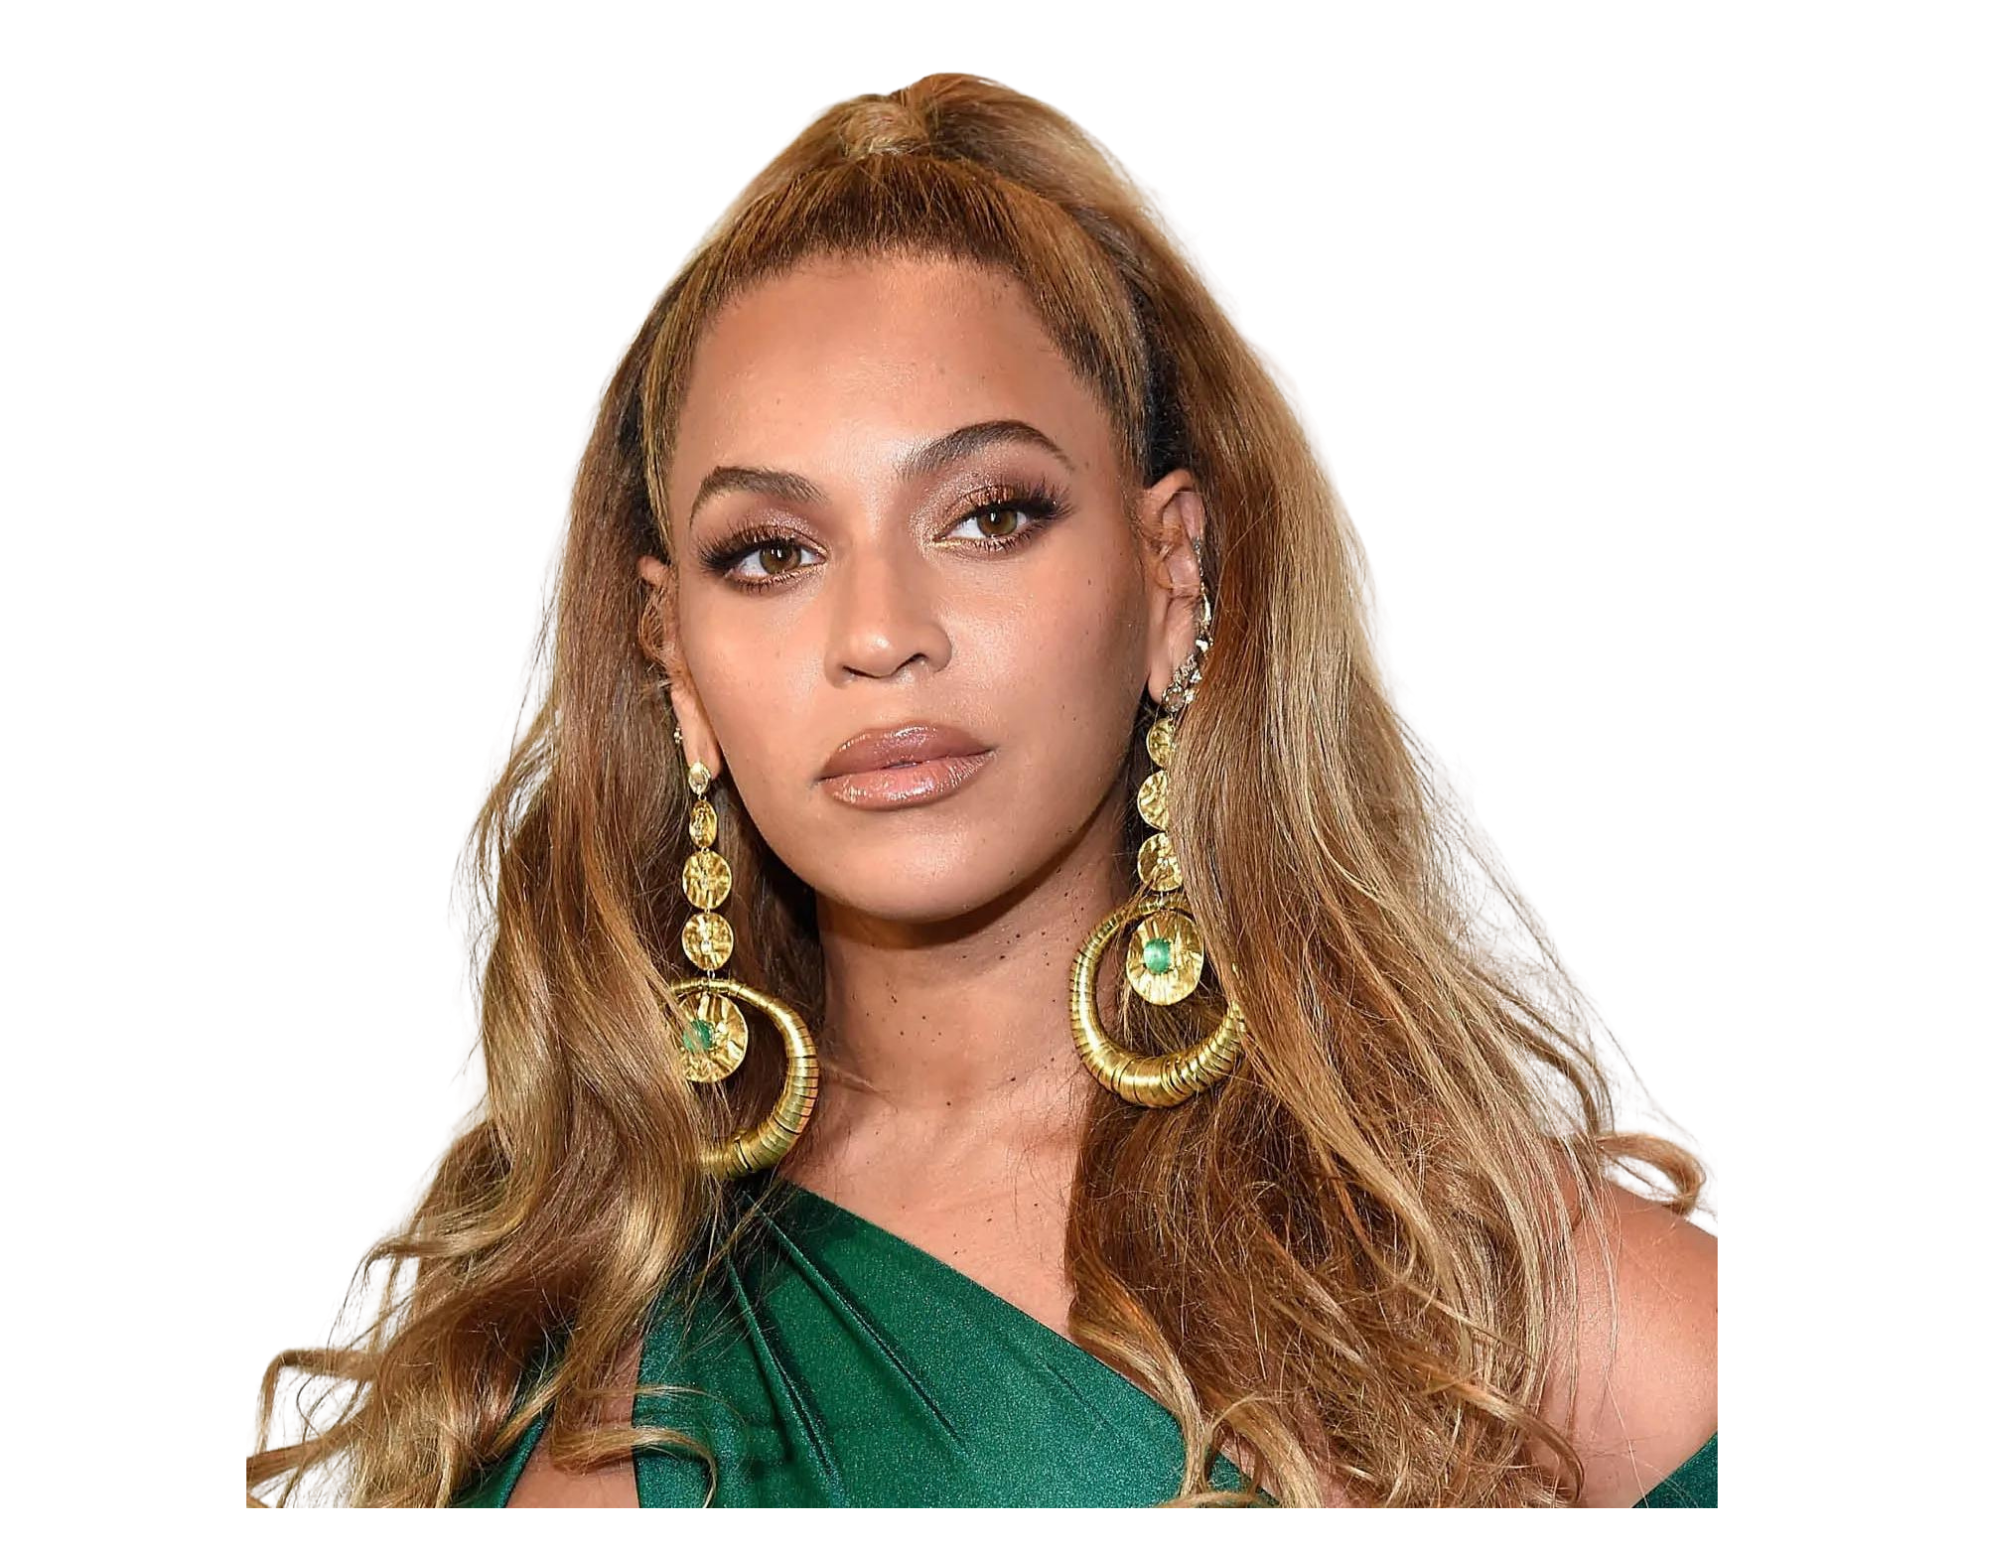
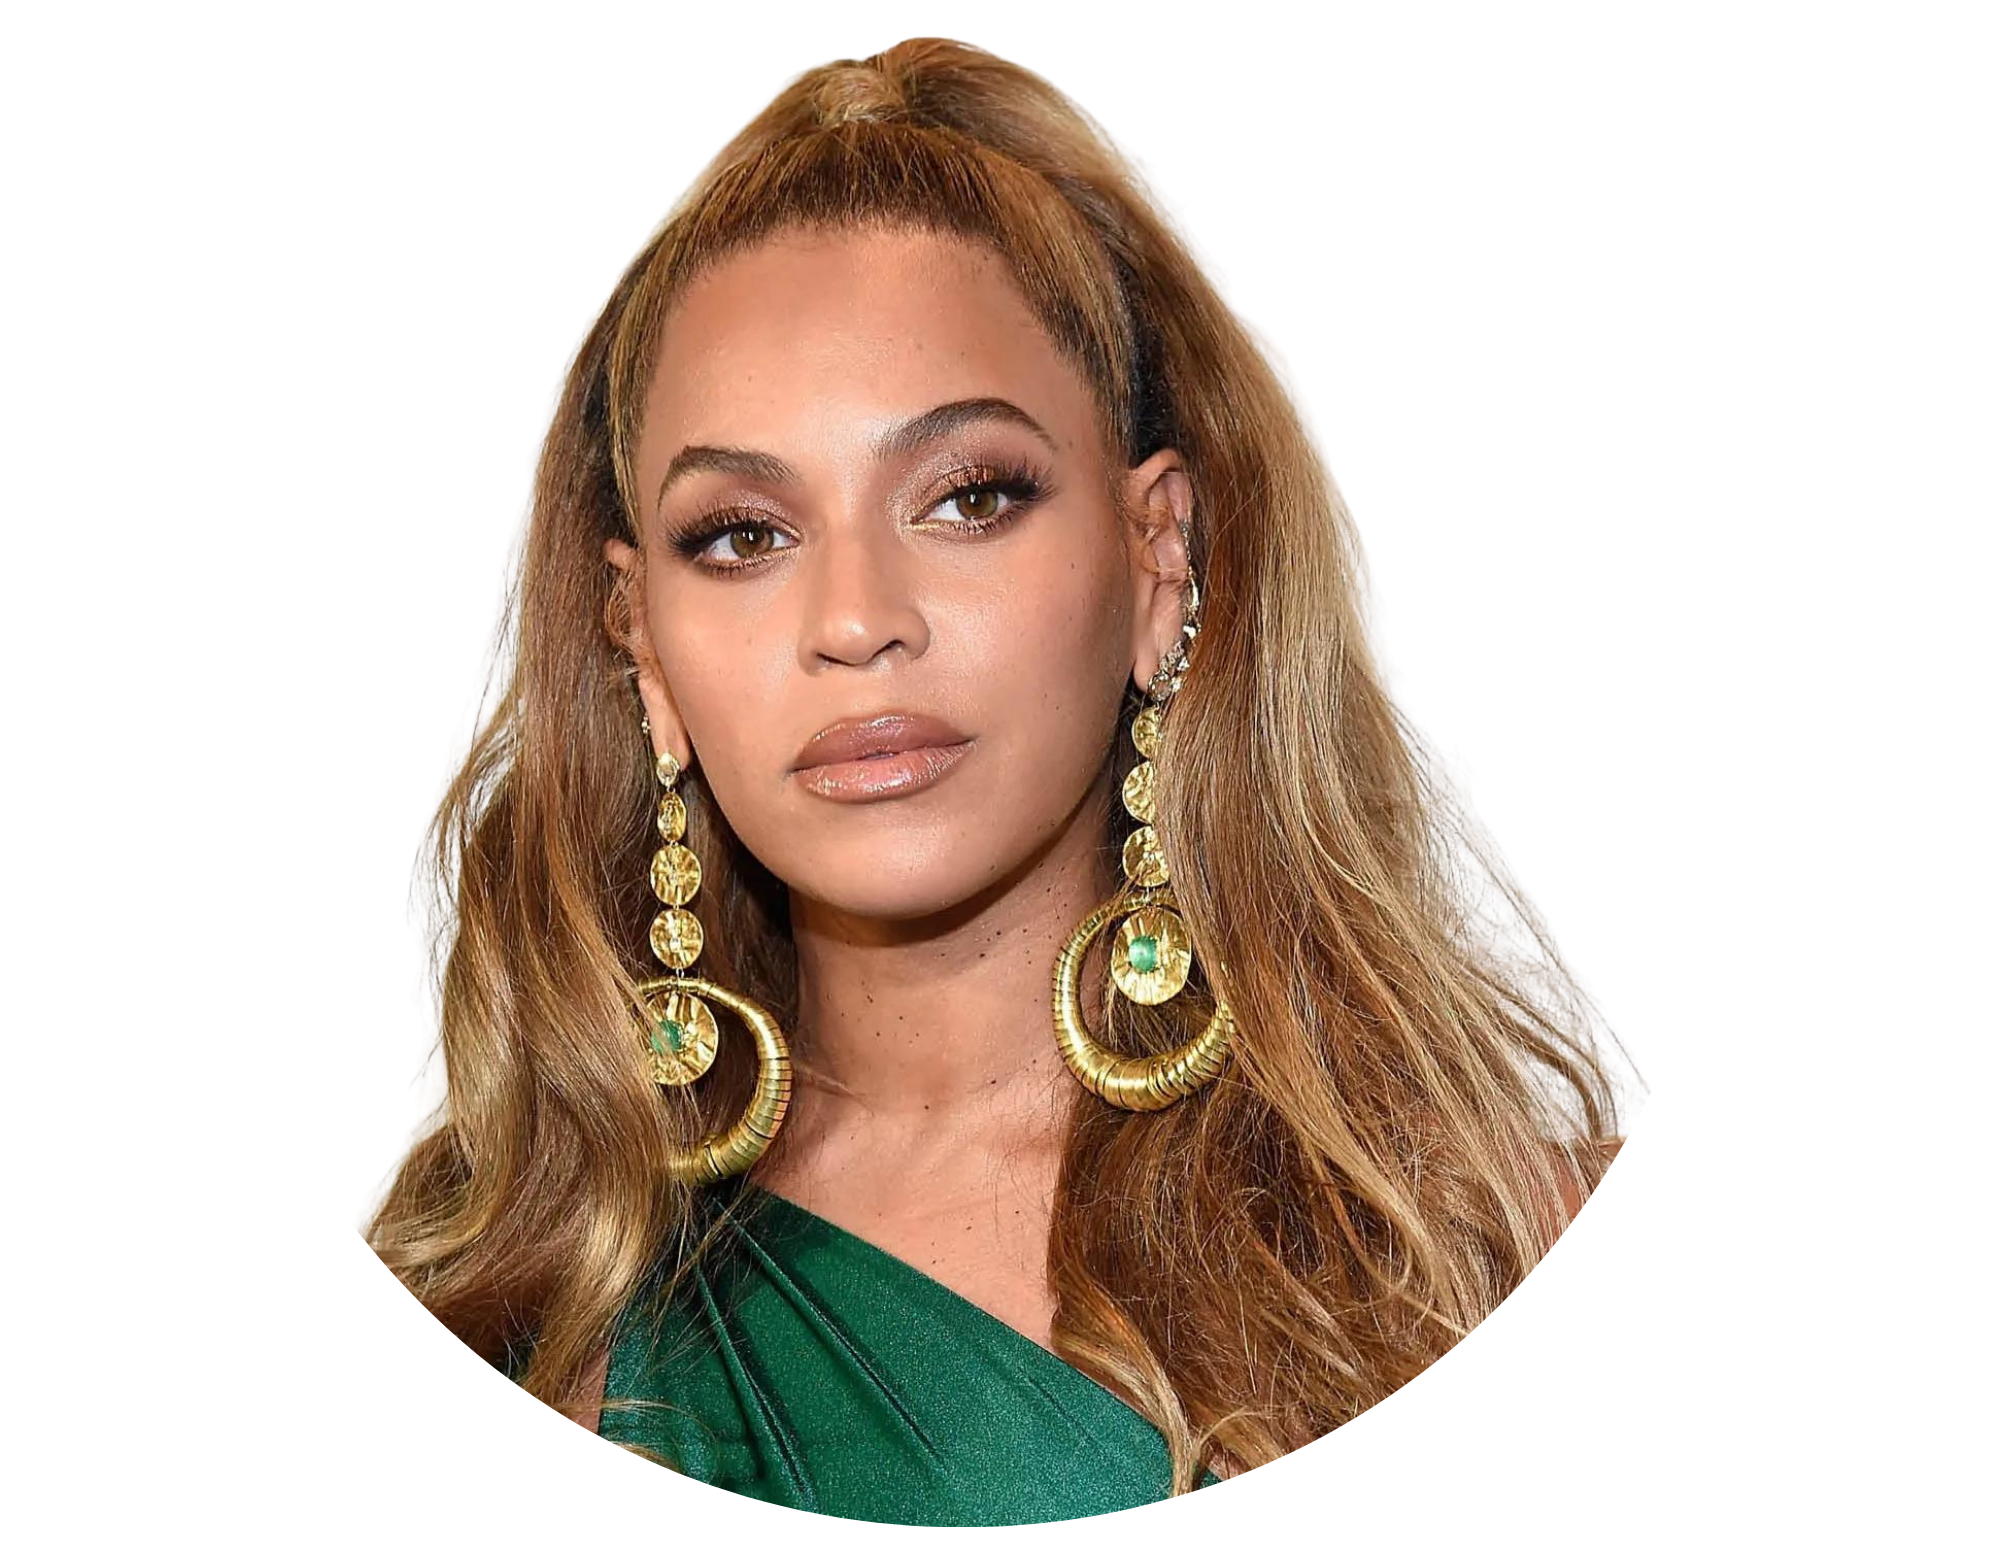
change heading and heading img

Changed region(s): [[0.124, 0.0, 0.868, 0.9942]]

diff --git a/stylesheet.css b/stylesheet.css
@@ -22,9 +22,7 @@ main {
 
 .header {
      display: block;
-     height: 70vh;
-     background-image: url(img-folder/clearyonce.png);
-     background-size: cover;
+     height: 80vh;
      position: relative;
      animation: moveInRight 2s ease-in;
 }
@@ -32,6 +30,7 @@ main {
 
 h1 {
      color: #000000fd;
+     animation: moveInLeft 2s ease-in;
 }
 
 h3 {
@@ -122,5 +121,24 @@ p {
           transform: translateX(0);
     }
 }
+
+@keyframes moveInLeft {
+     0% {
+      opacity: 0%;
+      transform: translateX(100px);
+     } 
+ 
+     80%  {
+          transform: translateX(-15px);
+     }
+ 
+     
+     100% {
+           opacity: 100%;
+           transform: translateX(0);
+     }
+ }
+ 
+ 
 
 

diff --git a/index.html b/index.html
@@ -13,8 +13,8 @@
 
   <body>
 
-     <header class="header">
-
+     <header>
+          <img src="img-folder/clearyonce.png" alt="beyonce" class="header">
           <div class="text-box">
           <h1> 
                <span class="heading"> Beyonce Giselle Knowles-Carter </span>
